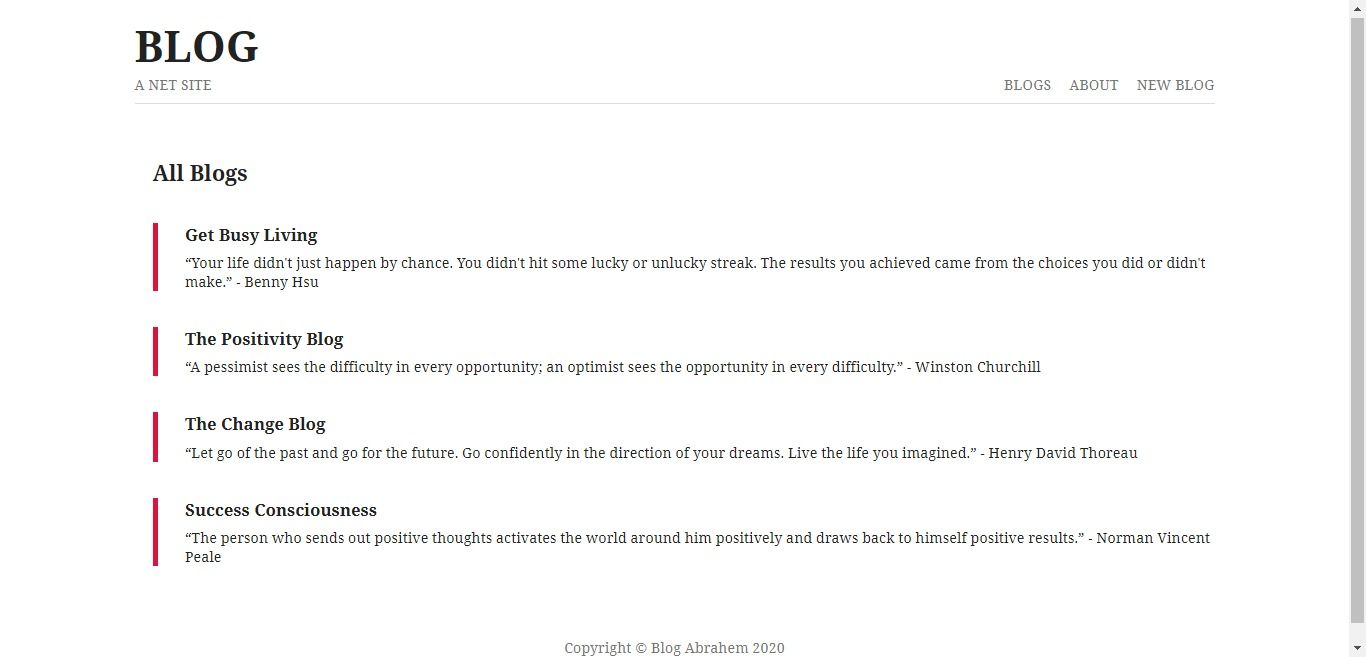
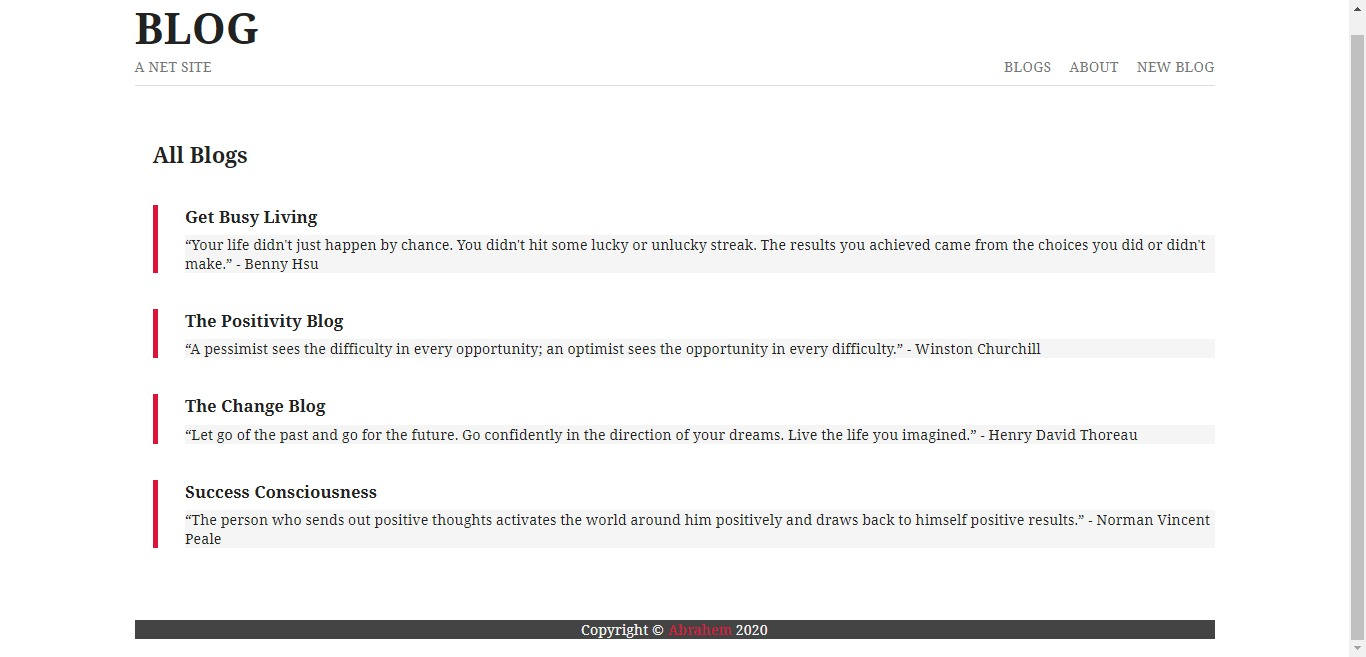
style footer

diff --git a/public/style.css b/public/style.css
@@ -109,3 +109,14 @@ textarea{
   cursor: pointer;
   box-shadow: 1px 2px 3px rgba(0,0,0,0.2);
 }
+.snippet{
+  background-color:whitesmoke;
+}
+.footer span {
+  color:crimson;  
+}
+
+.footer  {
+  background-color:#444;
+  color:whitesmoke
+}
